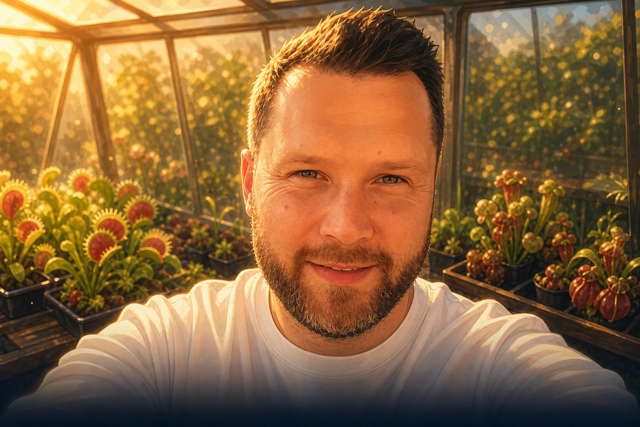
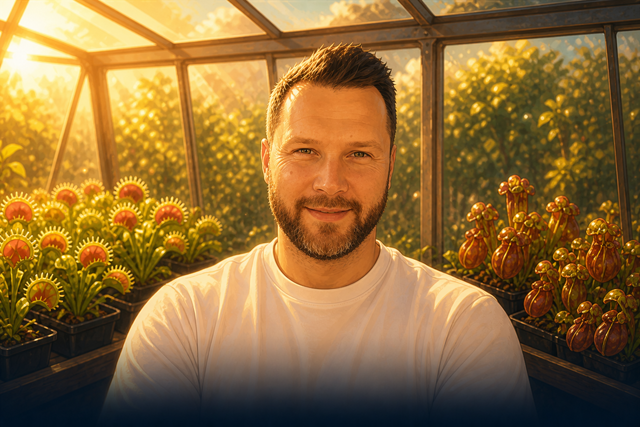
Corrige le cadrage Charles sur l'écran collecteurs
Recadre le portrait tête+épaules avec headroom comme Mayeu/Chris,
aligne le background-position des cartes, et passe le cache en 1.0.2.

diff --git a/index.html b/index.html
@@ -8,7 +8,7 @@
     <meta name="mobile-web-app-capable" content="yes" />
     <meta name="apple-mobile-web-app-capable" content="yes" />
     <meta name="apple-mobile-web-app-title" content="Gloutonnes RDTD" />
-    <meta name="rdtd-cache-version" content="1.0.1" />
+    <meta name="rdtd-cache-version" content="1.0.2" />
     <title>Les Gloutonnes RDTD · 1.0</title>
     <link rel="preconnect" href="https://fonts.googleapis.com" />
     <link rel="preconnect" href="https://fonts.gstatic.com" crossorigin />
@@ -19,7 +19,7 @@
     <script>
       /* Bust cache navigateur : version lue depuis meta.json (no-store) à chaque visite HTTP. */
       (function () {
-        var EMBEDDED = "1.0.1";
+        var EMBEDDED = "1.0.2";
         var STORAGE_KEY = "rdtd_cache_version";
         window.__RDTD_CACHE_V__ = EMBEDDED;
 
@@ -78,13 +78,13 @@
         })();
       })();
     </script>
-    <link id="rdtd-style" rel="stylesheet" href="./style.css?v=1.0.1" />
-    <link id="rdtd-theme" rel="stylesheet" href="./theme-gloutonnes.css?v=1.0.1" />
+    <link id="rdtd-style" rel="stylesheet" href="./style.css?v=1.0.2" />
+    <link id="rdtd-theme" rel="stylesheet" href="./theme-gloutonnes.css?v=1.0.2" />
     <link
       id="rdtd-icon"
       rel="icon"
       type="image/svg+xml"
-      href="./assets/icons/app-icon.svg?v=1.0.1"
+      href="./assets/icons/app-icon.svg?v=1.0.2"
     />
   </head>
   <body data-screen="title" data-biome="greenhouse" data-orientation="landscape">
@@ -115,7 +115,7 @@
           </button>
         </div>
         <h1 class="hud-title">
-          <img class="hud-title__logo" data-rdtd-asset="./assets/brand/logo.png" src="./assets/brand/logo.png?v=1.0.1" alt="" width="36" height="24" decoding="async" onerror="this.onerror=null;this.src='./assets/icons/app-icon.svg?v=1.0.1';" />
+          <img class="hud-title__logo" data-rdtd-asset="./assets/brand/logo.png" src="./assets/brand/logo.png?v=1.0.2" alt="" width="36" height="24" decoding="async" onerror="this.onerror=null;this.src='./assets/icons/app-icon.svg?v=1.0.2';" />
           <span class="hud-title__text">RDTD</span>
         </h1>
         <p class="subtitle">Défends la serre contre les ravageurs mutants.</p>
@@ -198,10 +198,10 @@
             <img
               class="title-brand__logo"
               data-rdtd-asset="./assets/brand/logo.png"
-              src="./assets/brand/logo.png?v=1.0.1"
+              src="./assets/brand/logo.png?v=1.0.2"
               alt="Les Gloutonnes"
               decoding="async"
-              onerror="this.onerror=null;this.src='./assets/icons/app-icon.svg?v=1.0.1';"
+              onerror="this.onerror=null;this.src='./assets/icons/app-icon.svg?v=1.0.2';"
             />
             <p class="title-brand__subtitle">Rogue Deck Tower Defense</p>
           </div>
@@ -542,7 +542,7 @@
     <script>
       window.__RDTD_BOOT__.then(function (v) {
         var s = document.createElement("script");
-        s.src = "./standalone.js?v=" + encodeURIComponent(v || "1.0.1");
+        s.src = "./standalone.js?v=" + encodeURIComponent(v || "1.0.2");
         document.body.appendChild(s);
       });
     </script>

diff --git a/standalone.js b/standalone.js
@@ -1686,7 +1686,7 @@ globalThis.__RDTD_STANDALONE_CONTENT__ = {
     "meta.json": {
   "gameVersion": "1.0",
   "contentVersion": "1.0.0",
-  "cacheVersion": "1.0.1",
+  "cacheVersion": "1.0.2",
   "bestiary": {
     "firstKillDamageBonus": 0.02,
     "maxFirstKillBonusTypes": 5
@@ -10126,7 +10126,7 @@ exports["bindTowerDockHints"] = bindTowerDockHints;
 });
 define("config/asset-cache.js", function (exports, require, module) {
 /** Version de bust cache navigateur (alignée sur content/meta.json → cacheVersion). */
-const EMBEDDED_CACHE_VERSION = "1.0.1";
+const EMBEDDED_CACHE_VERSION = "1.0.2";
 
 const isLocalDevHost =
   typeof location !== "undefined" &&
@@ -12367,8 +12367,9 @@ function renderCollectorChoices() {
         </span>`
       : "";
     const portraitClass = collector.portrait ? " collector-choice--portrait" : "";
+    const portraitPos = collector.portraitPos ? `; --collector-portrait-pos: ${collector.portraitPos}` : "";
     const portraitStyle = collector.portrait
-      ? ` style="--collector-portrait: ${getCollectorPortraitLayers(collector)}"`
+      ? ` style="--collector-portrait: ${getCollectorPortraitLayers(collector)}${portraitPos}"`
       : "";
     return `
       <button class="draft-choice collector-choice${portraitClass}" data-collector-id="${collector.id}" type="button"

diff --git a/game.js b/game.js
@@ -1942,8 +1942,9 @@ function renderCollectorChoices() {
         </span>`
       : "";
     const portraitClass = collector.portrait ? " collector-choice--portrait" : "";
+    const portraitPos = collector.portraitPos ? `; --collector-portrait-pos: ${collector.portraitPos}` : "";
     const portraitStyle = collector.portrait
-      ? ` style="--collector-portrait: ${getCollectorPortraitLayers(collector)}"`
+      ? ` style="--collector-portrait: ${getCollectorPortraitLayers(collector)}${portraitPos}"`
       : "";
     return `
       <button class="draft-choice collector-choice${portraitClass}" data-collector-id="${collector.id}" type="button"

diff --git a/theme-gloutonnes.css b/theme-gloutonnes.css
@@ -1770,9 +1770,9 @@ body[data-screen="title"] #board {
   z-index: -2;
   background-image: var(--collector-portrait) !important;
   background-size: cover !important;
-  background-position: center 30% !important;
+  background-position: var(--collector-portrait-pos, center 28%) !important;
   opacity: 1 !important;
-  transform: scale(1.02);
+  transform: scale(1);
 }
 
 .collector-choice--portrait::after {

diff --git a/style.css b/style.css
@@ -1598,10 +1598,10 @@ body[data-screen="gameover"] .board-wrap {
   inset: 0;
   background-image: var(--collector-portrait);
   background-size: cover;
-  background-position: center 12%;
+  background-position: var(--collector-portrait-pos, center 28%);
   background-repeat: no-repeat;
   z-index: 0;
-  transform: scale(1.02);
+  transform: scale(1);
 }
 
 .collector-choice--portrait::after {

diff --git a/config/asset-cache.js b/config/asset-cache.js
@@ -1,5 +1,5 @@
 /** Version de bust cache navigateur (alignée sur content/meta.json → cacheVersion). */
-export const EMBEDDED_CACHE_VERSION = "1.0.1";
+export const EMBEDDED_CACHE_VERSION = "1.0.2";
 
 const isLocalDevHost =
   typeof location !== "undefined" &&
